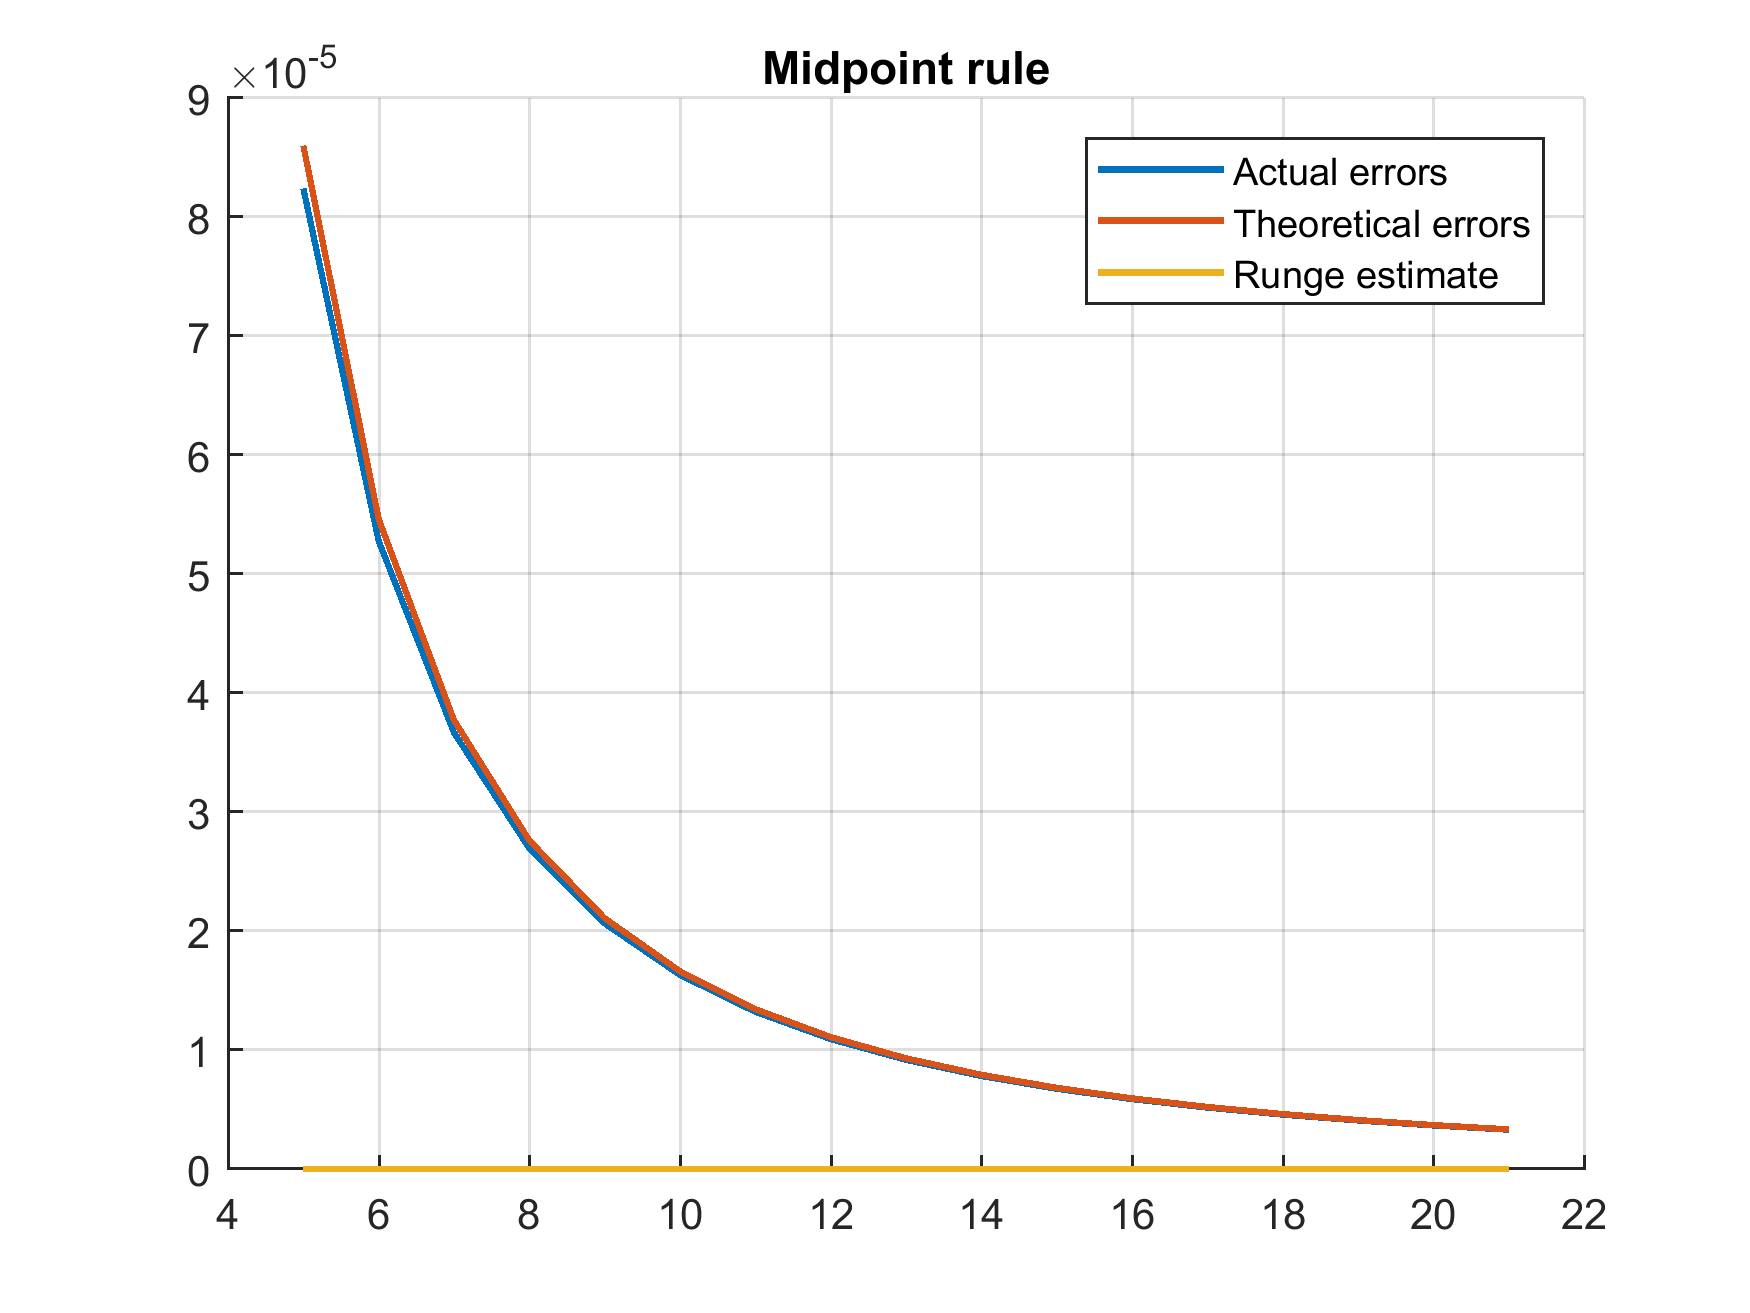
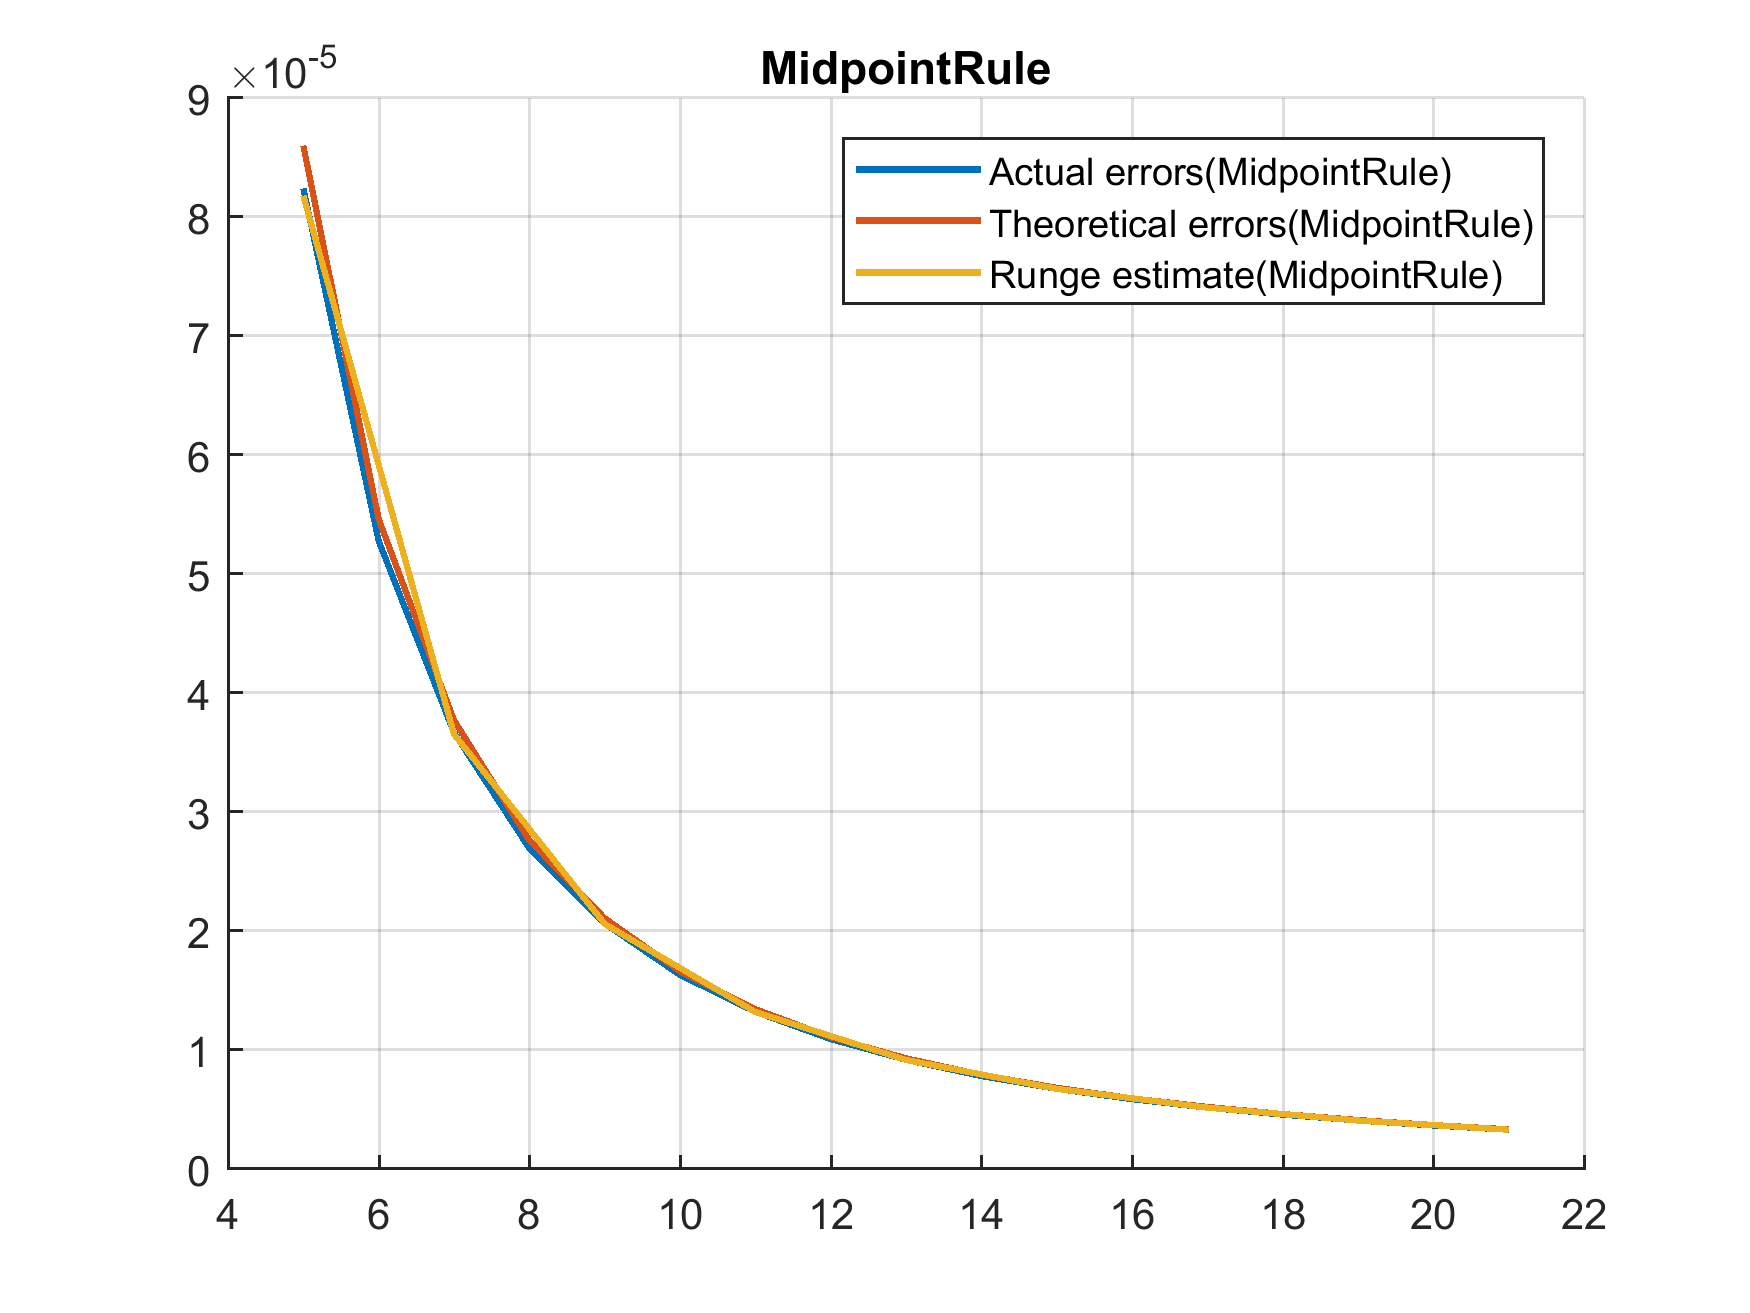
corrected the calculation of the error by the method of the Runge

diff --git a/Fifth_semester/Numerical_Analysis/Newton-CitesRules/CompareRules.m b/Fifth_semester/Numerical_Analysis/Newton-CitesRules/CompareRules.m
@@ -17,9 +17,9 @@ function [ ] = CompareRules( )
     [S12, temp] = MidpointRule(a, b, ceil(n / 2));
     [S22, temp] = TrapezoidRule(a, b, ceil(n / 2));
     [S32, temp] = SimpsonsRule(a, b, ceil(n / 2));
-    ruki = {(S12 - S1) / 3, (S22 - S2) / 3, (S32 - S3) / 15};
+    runge = {(S1 - S12) / 3, (S2 - S22) / 3, (S3 - S32) / 15};
     
-    data = [exactValues; approxs; actualErr; theoreticalErr; ruki];
+    data = [exactValues; approxs; actualErr; theoreticalErr; runge];
 
     rowNames = {'exact value', 'approximation', 'actual error',...
                 'theoretical error', 'Runge estimate'};
@@ -27,5 +27,5 @@ function [ ] = CompareRules( )
     f = figure;
     t = uitable( f, 'Data', data, 'ColumnName',columnNames,...
                 'RowName',rowNames,'Position', [20 20 430 120]);
-    %print(f, '-dpng', '-r300', 'table');
+    print(f, '-dpng', '-r300', 'table');
 end

diff --git a/Fifth_semester/Numerical_Analysis/Newton-CitesRules/SimpsonsRule.m b/Fifth_semester/Numerical_Analysis/Newton-CitesRules/SimpsonsRule.m
@@ -9,7 +9,7 @@ function [ S, err ] = SimpsonsRule( a, b, n )
     err = 0;
     for k = 1 : n
         midX = (xs(k) + xs(k + 1)) / 2;
-        midY = LagrangePolinomial(xs, ys, midX);
+        midY = f(midX);
         leftY = ys(k);
         rightY = ys(k + 1);
         delta = xs(k + 1) - xs(k);
